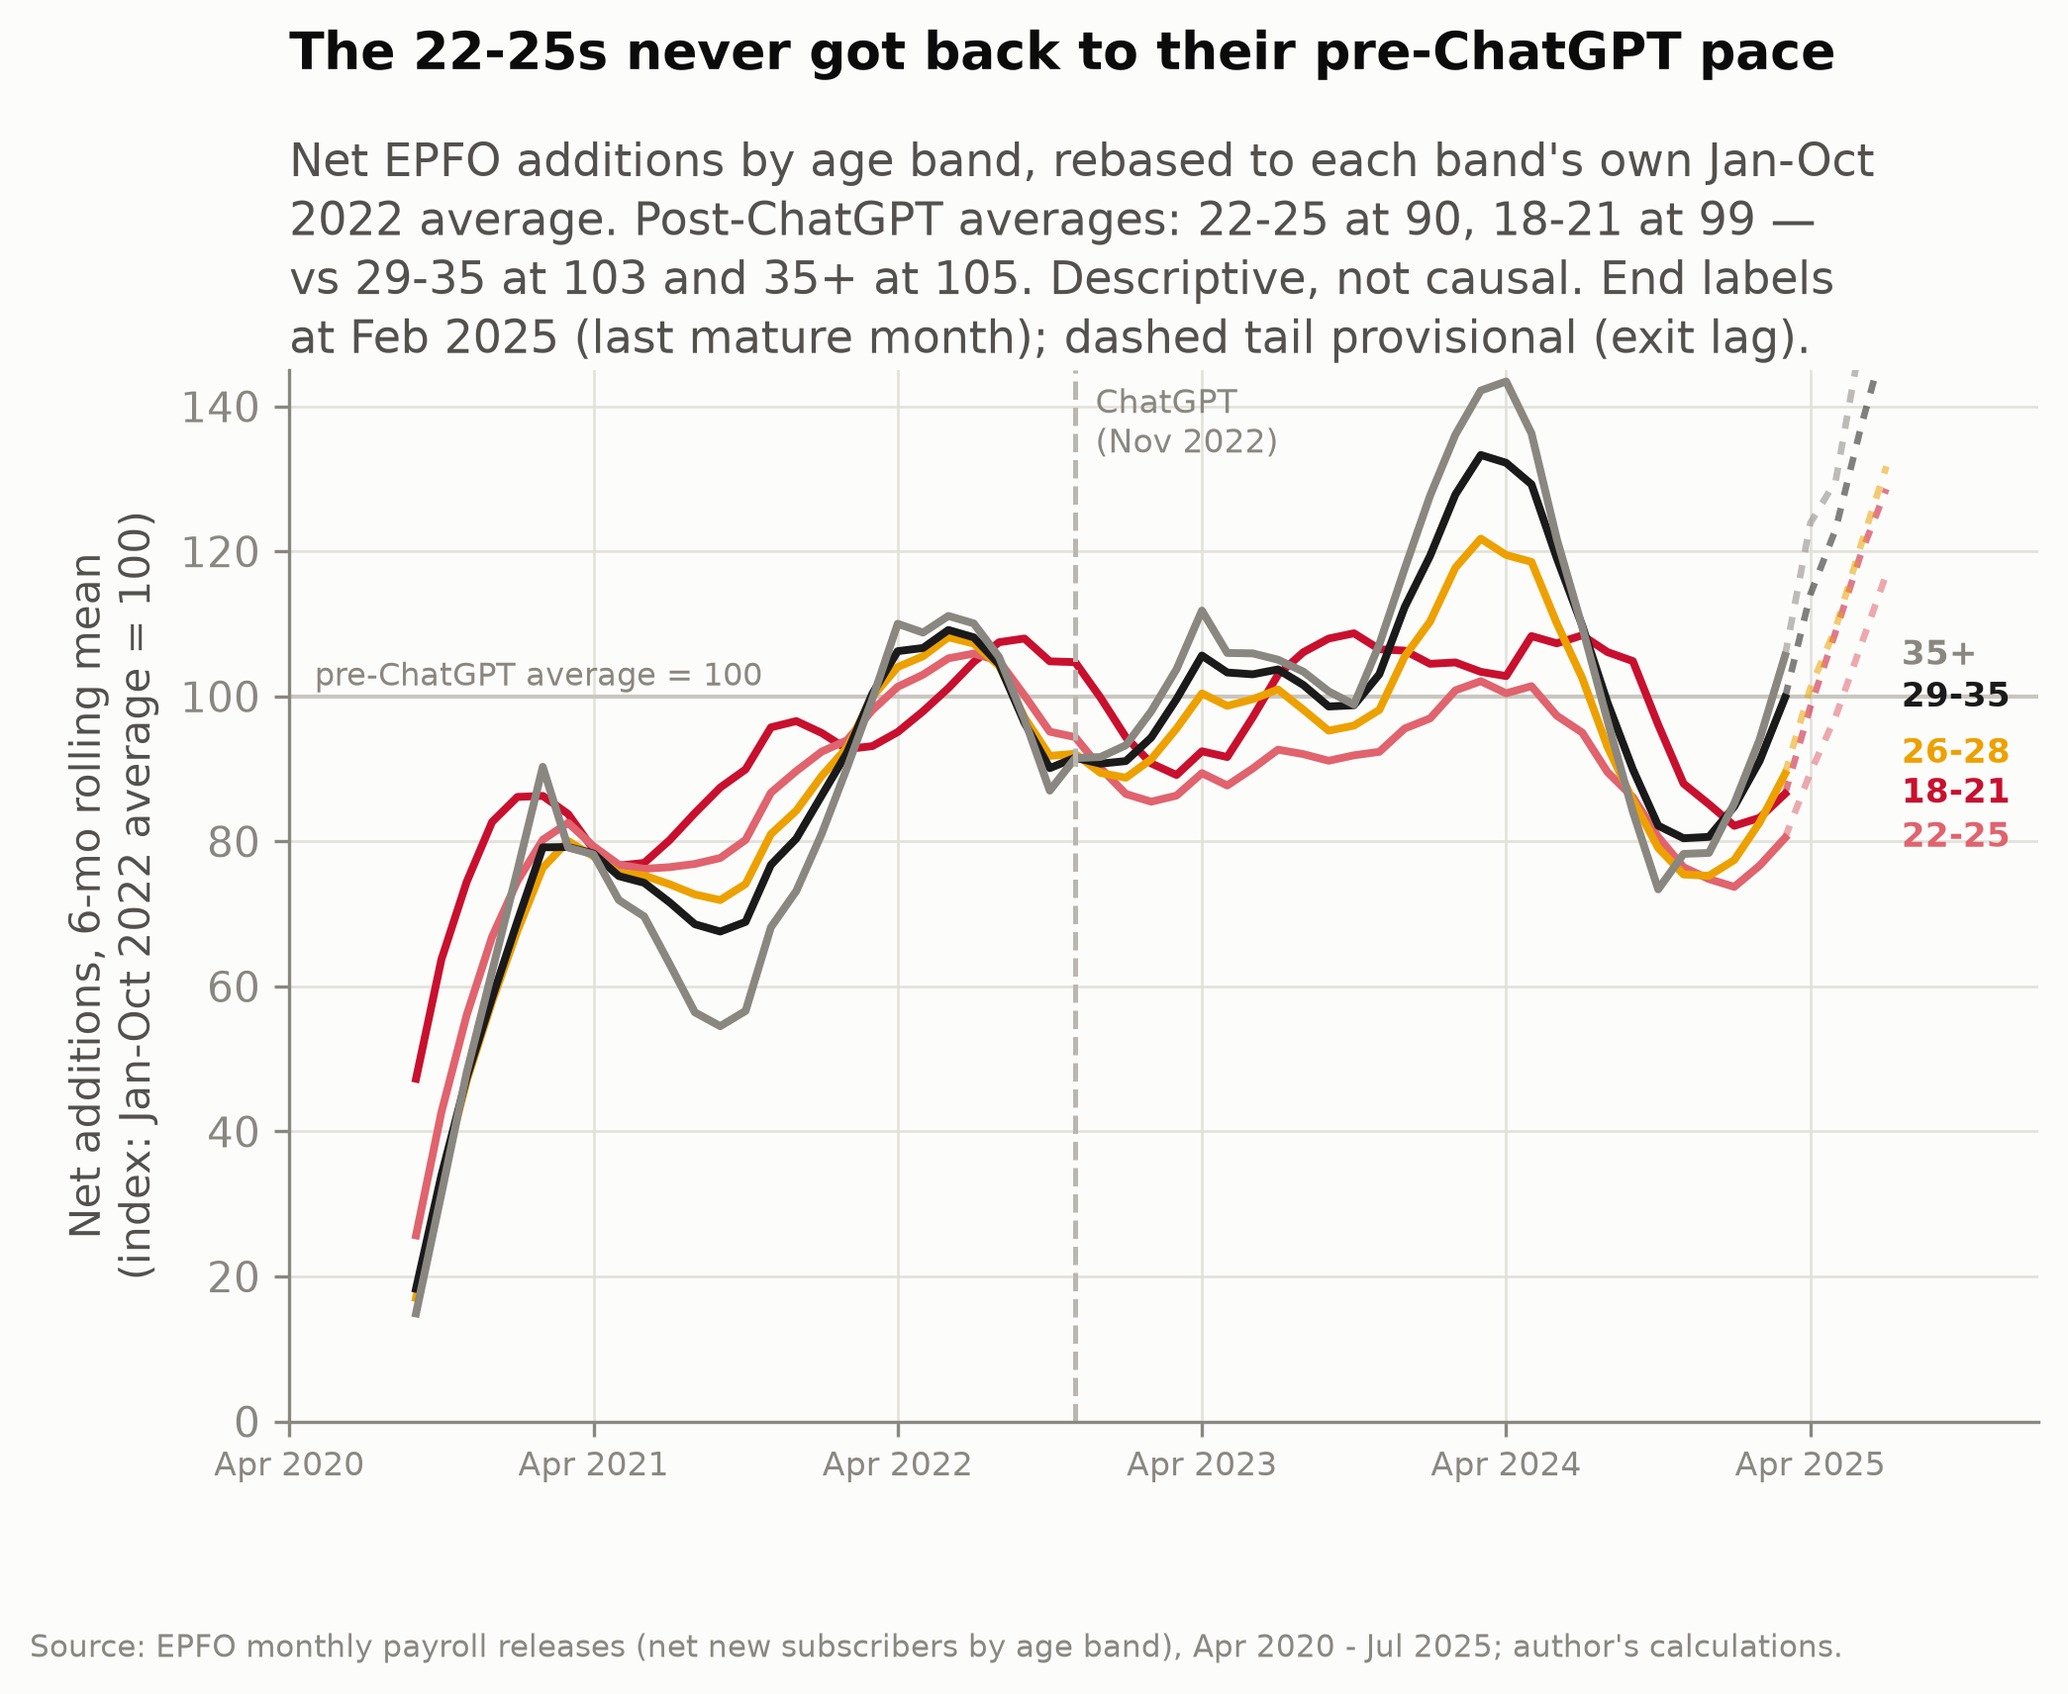
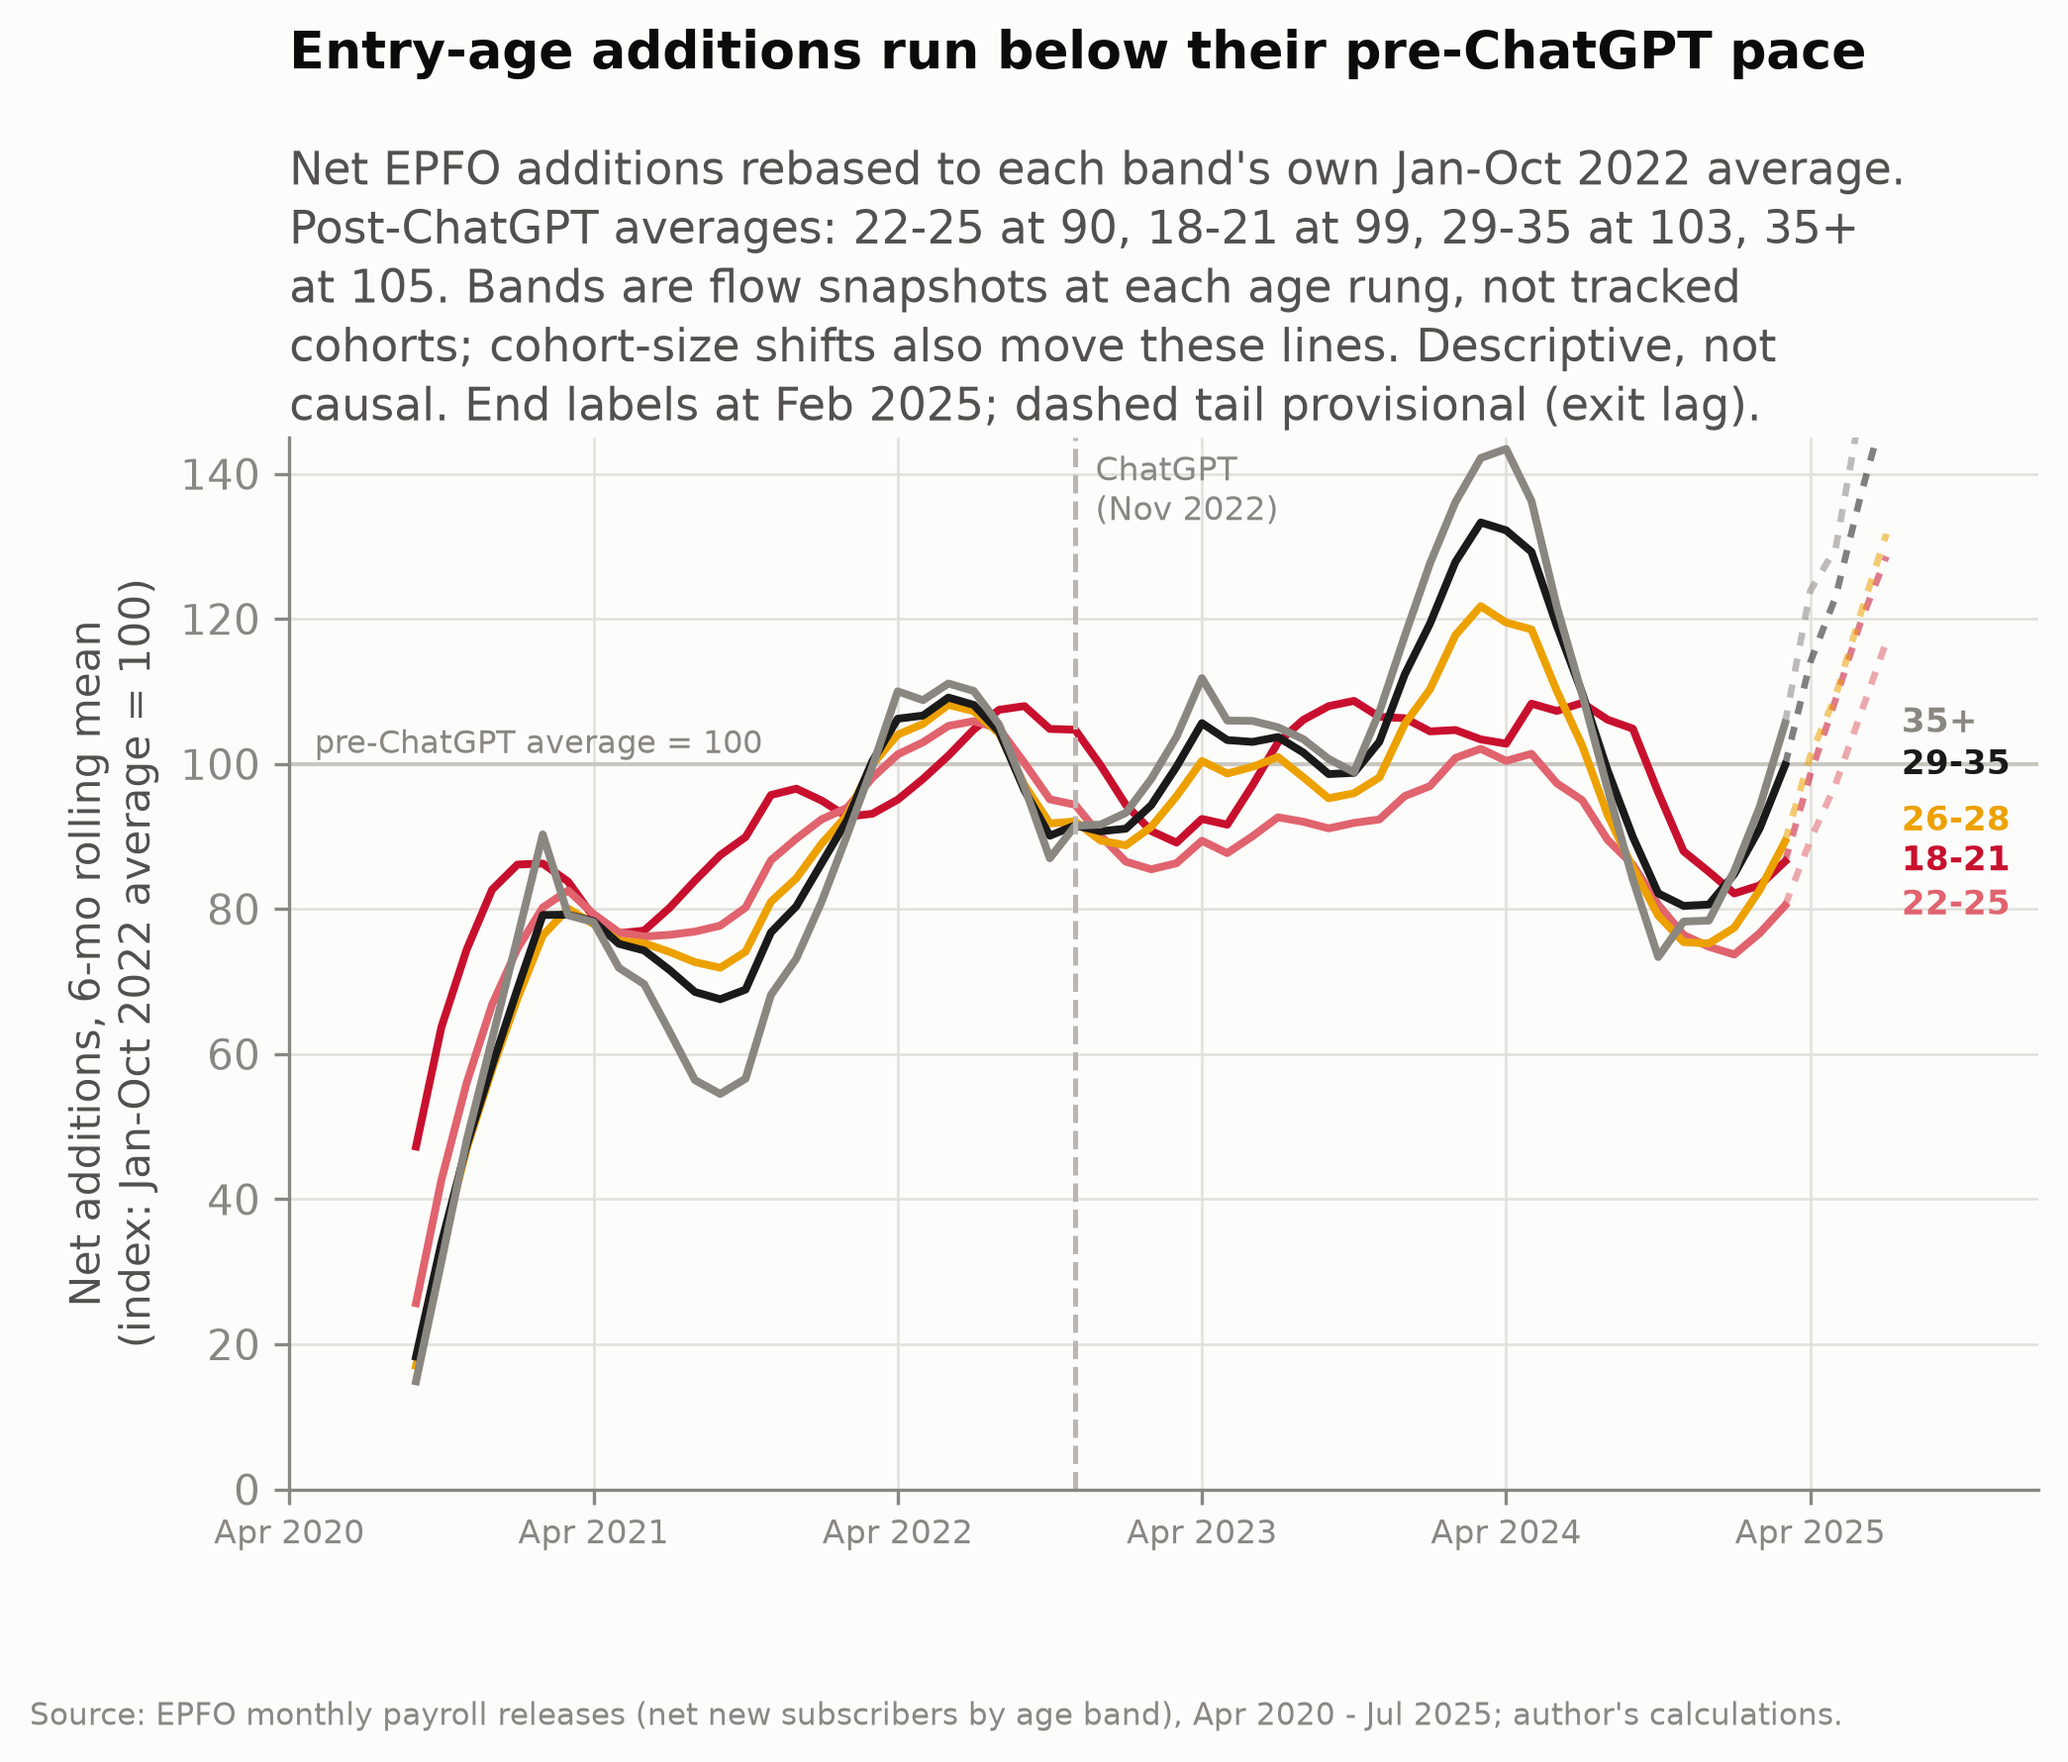
fix: indexed EPFO chart — entry-age headline + flow-vs-cohort caveat; NOTES.md band-cohort note

diff --git a/src/insights/insight_epfo_trend.py b/src/insights/insight_epfo_trend.py
@@ -126,11 +126,12 @@ def chart_indexed(months: list[str], series: dict) -> list[str]:
     ax.text(chatgpt + 0.8, ymax - 2, "ChatGPT\n(Nov 2022)", fontsize=8,
             color="#898781", va="top")
     ax.set_ylabel("Net additions, 6-mo rolling mean\n(index: Jan-Oct 2022 average = 100)")
-    head_sub(ax, "The 22-25s never got back to their pre-ChatGPT pace\n"
-                 "Net EPFO additions by age band, rebased to each band's own Jan-Oct\n"
-                 "2022 average. Post-ChatGPT averages: 22-25 at 90, 18-21 at 99 —\n"
-                 "vs 29-35 at 103 and 35+ at 105. Descriptive, not causal. End labels\n"
-                 "at Feb 2025 (last mature month); dashed tail provisional (exit lag).")
+    head_sub(ax, "Entry-age additions run below their pre-ChatGPT pace\n"
+                 "Net EPFO additions rebased to each band's own Jan-Oct 2022 average.\n"
+                 "Post-ChatGPT averages: 22-25 at 90, 18-21 at 99, 29-35 at 103, 35+\n"
+                 "at 105. Bands are flow snapshots at each age rung, not tracked\n"
+                 "cohorts; cohort-size shifts also move these lines. Descriptive, not\n"
+                 "causal. End labels at Feb 2025; dashed tail provisional (exit lag).")
     add_source(fig, DATASET)
     fig.savefig(OUT / "insight_epfo_trend_indexed.png", bbox_inches="tight")
     plt.close(fig)

diff --git a/data/raw/epfo/NOTES.md b/data/raw/epfo/NOTES.md
@@ -83,3 +83,22 @@ aggregate artifact, but note in §6 limitations that vintage maturity could diff
 across industry heads in recent months; (c) prefer **new subscribers (gross joins)**
 for entry-rung visuals — that series does not depend on lagged exits. Do NOT
 "correct" the raw values; this is inherent to the source.
+
+## Age bands are flow cross-sections, not cohorts (2026-09-02)
+
+Raised by Surya on the indexed trend chart. EPFO publishes net additions by AGE BAND;
+there is no cohort linkage. Implications for interpretation:
+- A continuously-employed member ageing across a band boundary generates no flow
+  (correct — nothing added or lost).
+- But an entry and its eventual reversing exit land in DIFFERENT bands: join at 24
+  → +1 in 22-25; exit at 27 → −1 in 26-28. Young-band net is therefore ~pure gross
+  entry, while older-band net absorbs exits of workers hired years earlier. Never
+  compare band levels as if they were age-specific hiring rates.
+- Within-band-over-time (the indexed chart) avoids the level trap but is still not
+  cohort-clean: changes in churn timing and in the SIZE of the population cohort
+  currently passing through a band move the line without any change in hiring
+  propensity per person.
+Handling: chart subtitles state "flow snapshots, not tracked cohorts"; the event
+study's young-vs-old contrast is within industry × month (netting aggregate churn
+shifts); population-cohort normalisation (dividing by projected cohort size) is a
+possible robustness step for the paper. Cannot be fixed from published EPFO data.

diff --git a/outputs/substack/provenance.md b/outputs/substack/provenance.md
@@ -192,3 +192,11 @@ Source: EPFO monthly payroll releases (net new subscribers by age band), Apr 202
 Same series indexed to 2022-01..2022-10 avg = 100; under-18 dropped (tiny base); 18-21: base=0.273M, Feb-2025 idx=87; 22-25: base=0.324M, Feb-2025 idx=80; 26-28: base=0.161M, Feb-2025 idx=89; 29-35: base=0.227M, Feb-2025 idx=100; >35: base=0.199M, Feb-2025 idx=106
 Dashed from 2025-03 as above.
 Source: EPFO monthly payroll releases (net new subscribers by age band), Apr 2020 - Jul 2025.
+### insight_epfo_young_trend (2026-09-02)
+6-mo rolling means, all bands; 18-21: last r6=0.351M; 22-25: last r6=0.379M; 26-28: last r6=0.212M; 29-35: last r6=0.340M; >35: last r6=0.324M; <18: last r6=0.008M
+Dashed from 2025-03: provisional (exit-recording lag overstates recent net additions; see data/raw/epfo/NOTES.md).
+Source: EPFO monthly payroll releases (net new subscribers by age band), Apr 2020 - Jul 2025.
+### insight_epfo_trend_indexed (2026-09-02)
+Same series indexed to 2022-01..2022-10 avg = 100; under-18 dropped (tiny base); 18-21: base=0.273M, Feb-2025 idx=87; 22-25: base=0.324M, Feb-2025 idx=80; 26-28: base=0.161M, Feb-2025 idx=89; 29-35: base=0.227M, Feb-2025 idx=100; >35: base=0.199M, Feb-2025 idx=106
+Dashed from 2025-03 as above.
+Source: EPFO monthly payroll releases (net new subscribers by age band), Apr 2020 - Jul 2025.
